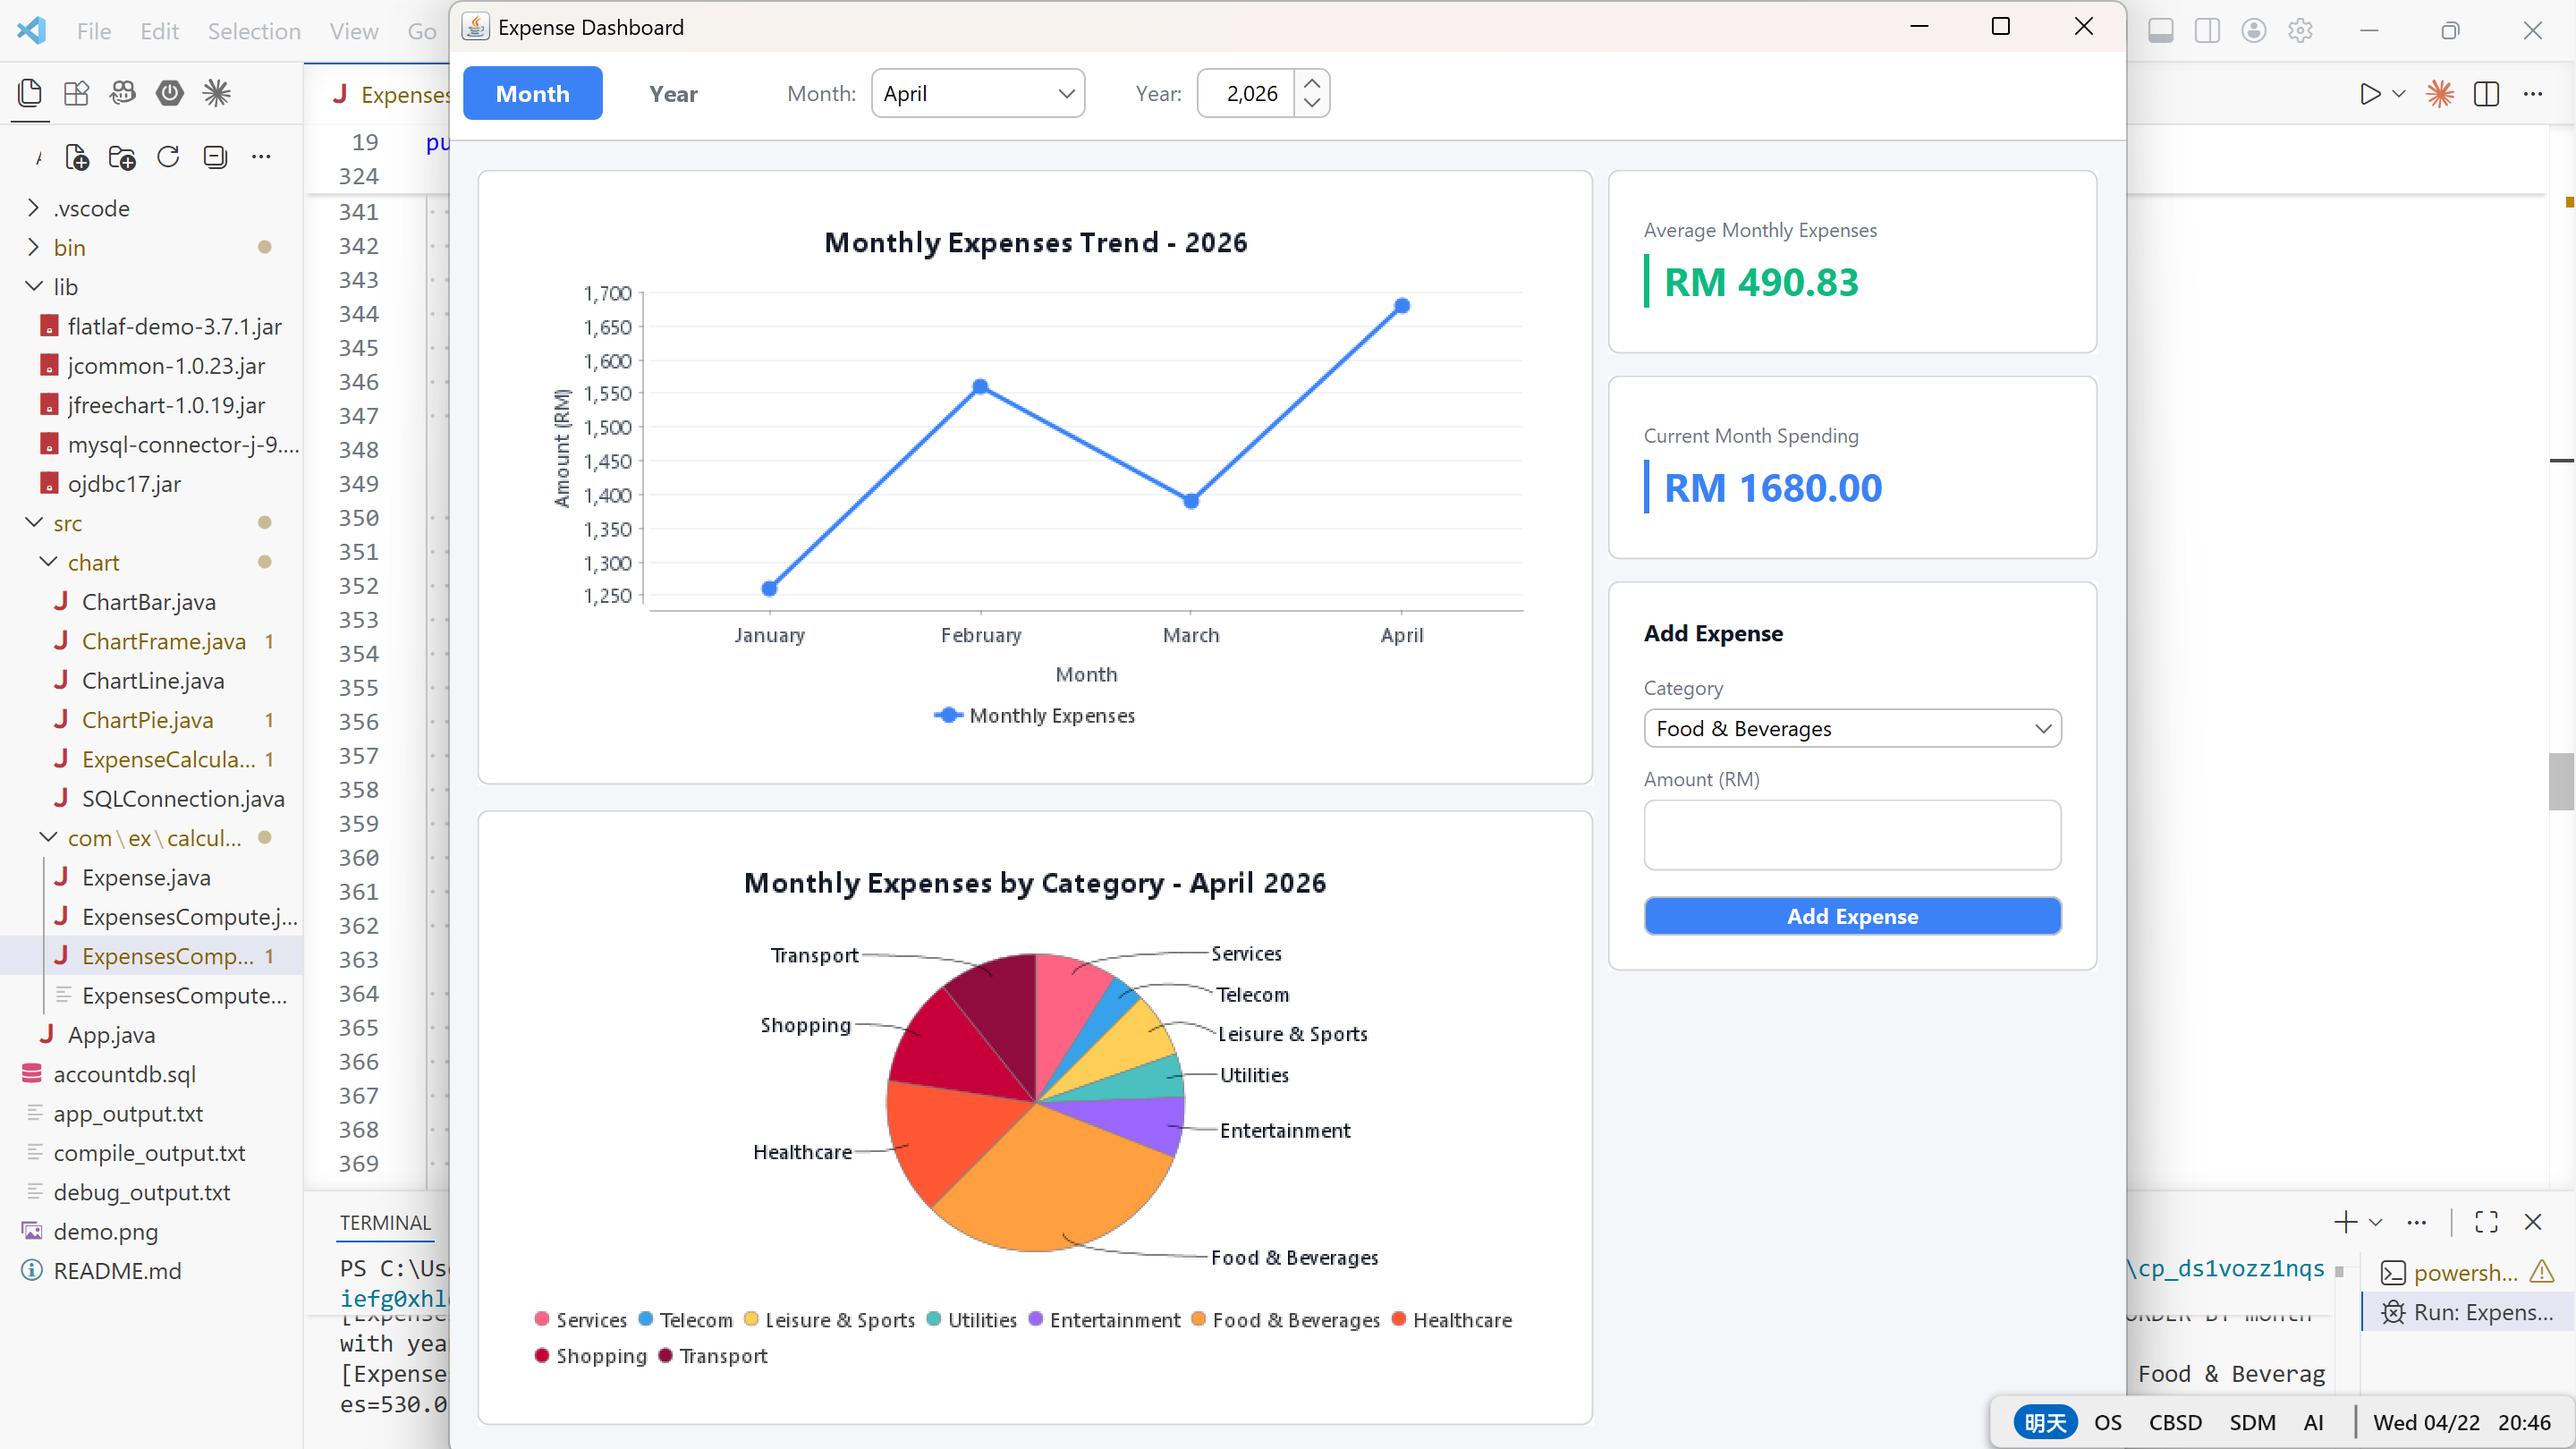
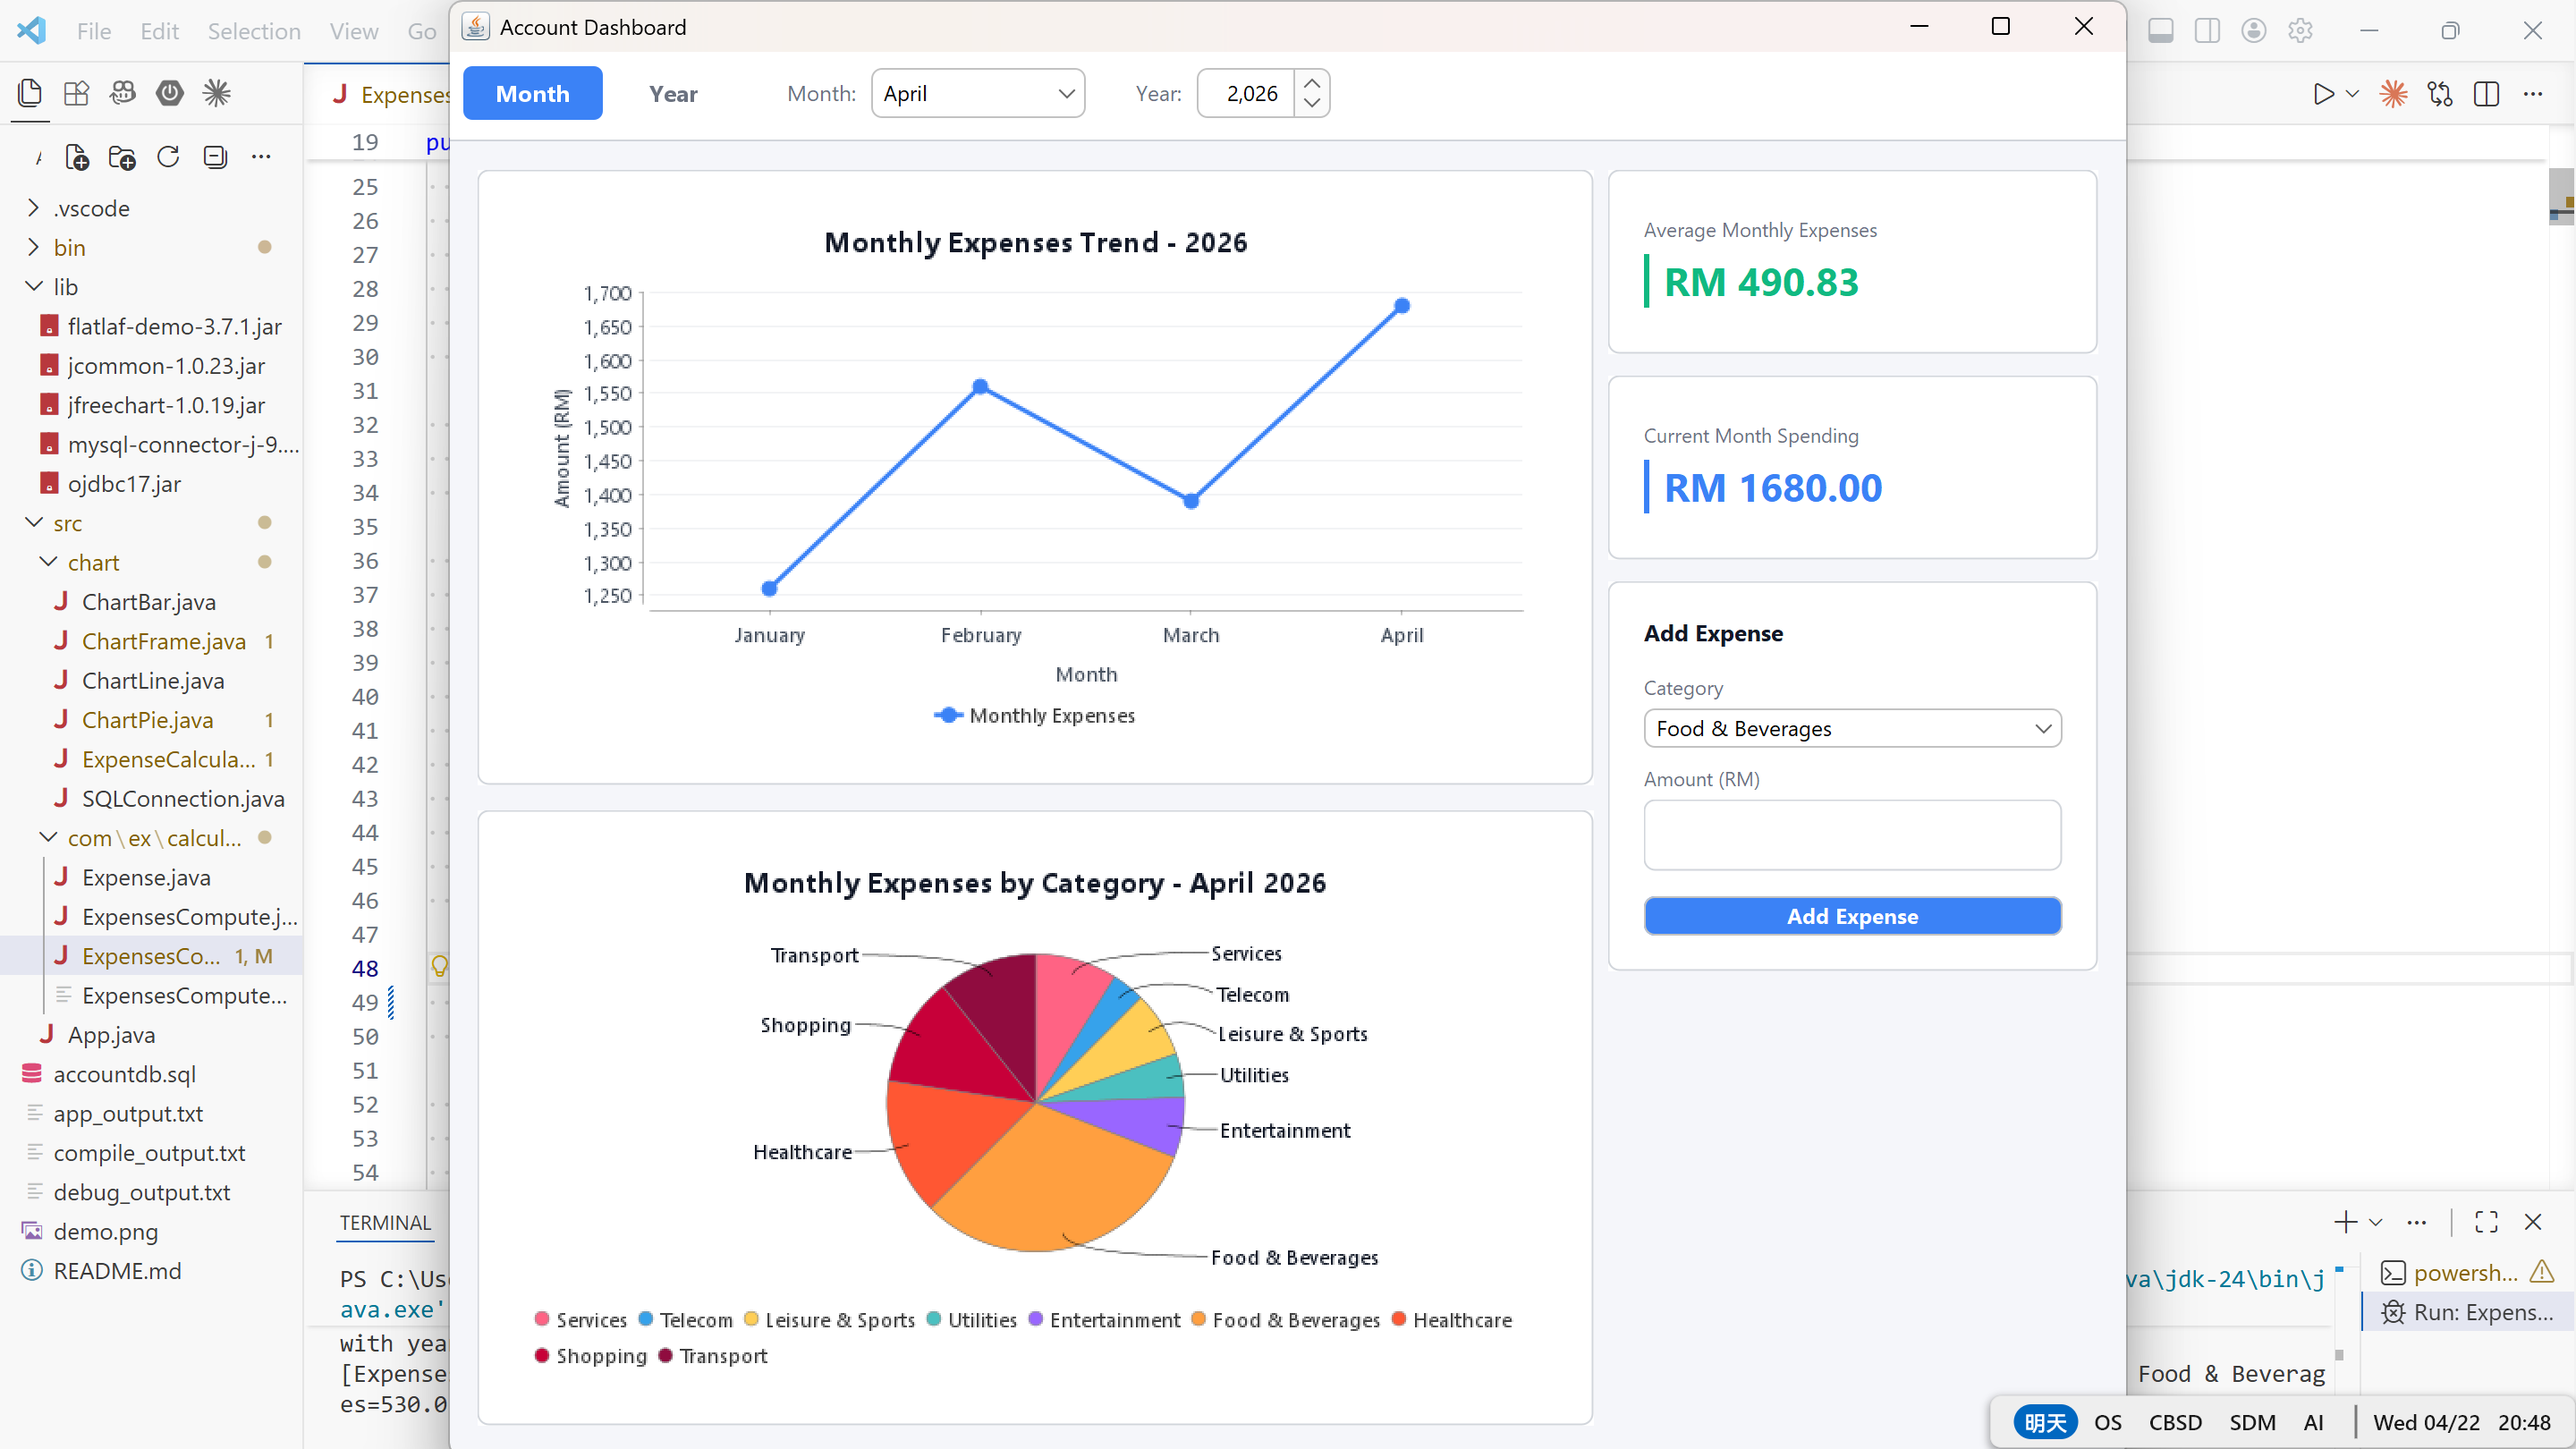
bugs fixed

diff --git a/src/com/ex/calculate/ExpensesComputeApplication.java b/src/com/ex/calculate/ExpensesComputeApplication.java
@@ -46,7 +46,7 @@ public class ExpensesComputeApplication extends JFrame {
     private static final int   RADIUS            = 12;
 
     public ExpensesComputeApplication() {
-        super("Expense Dashboard");
+        super("Account Dashboard");
         compute = new ExpensesCompute();
 
         try {
